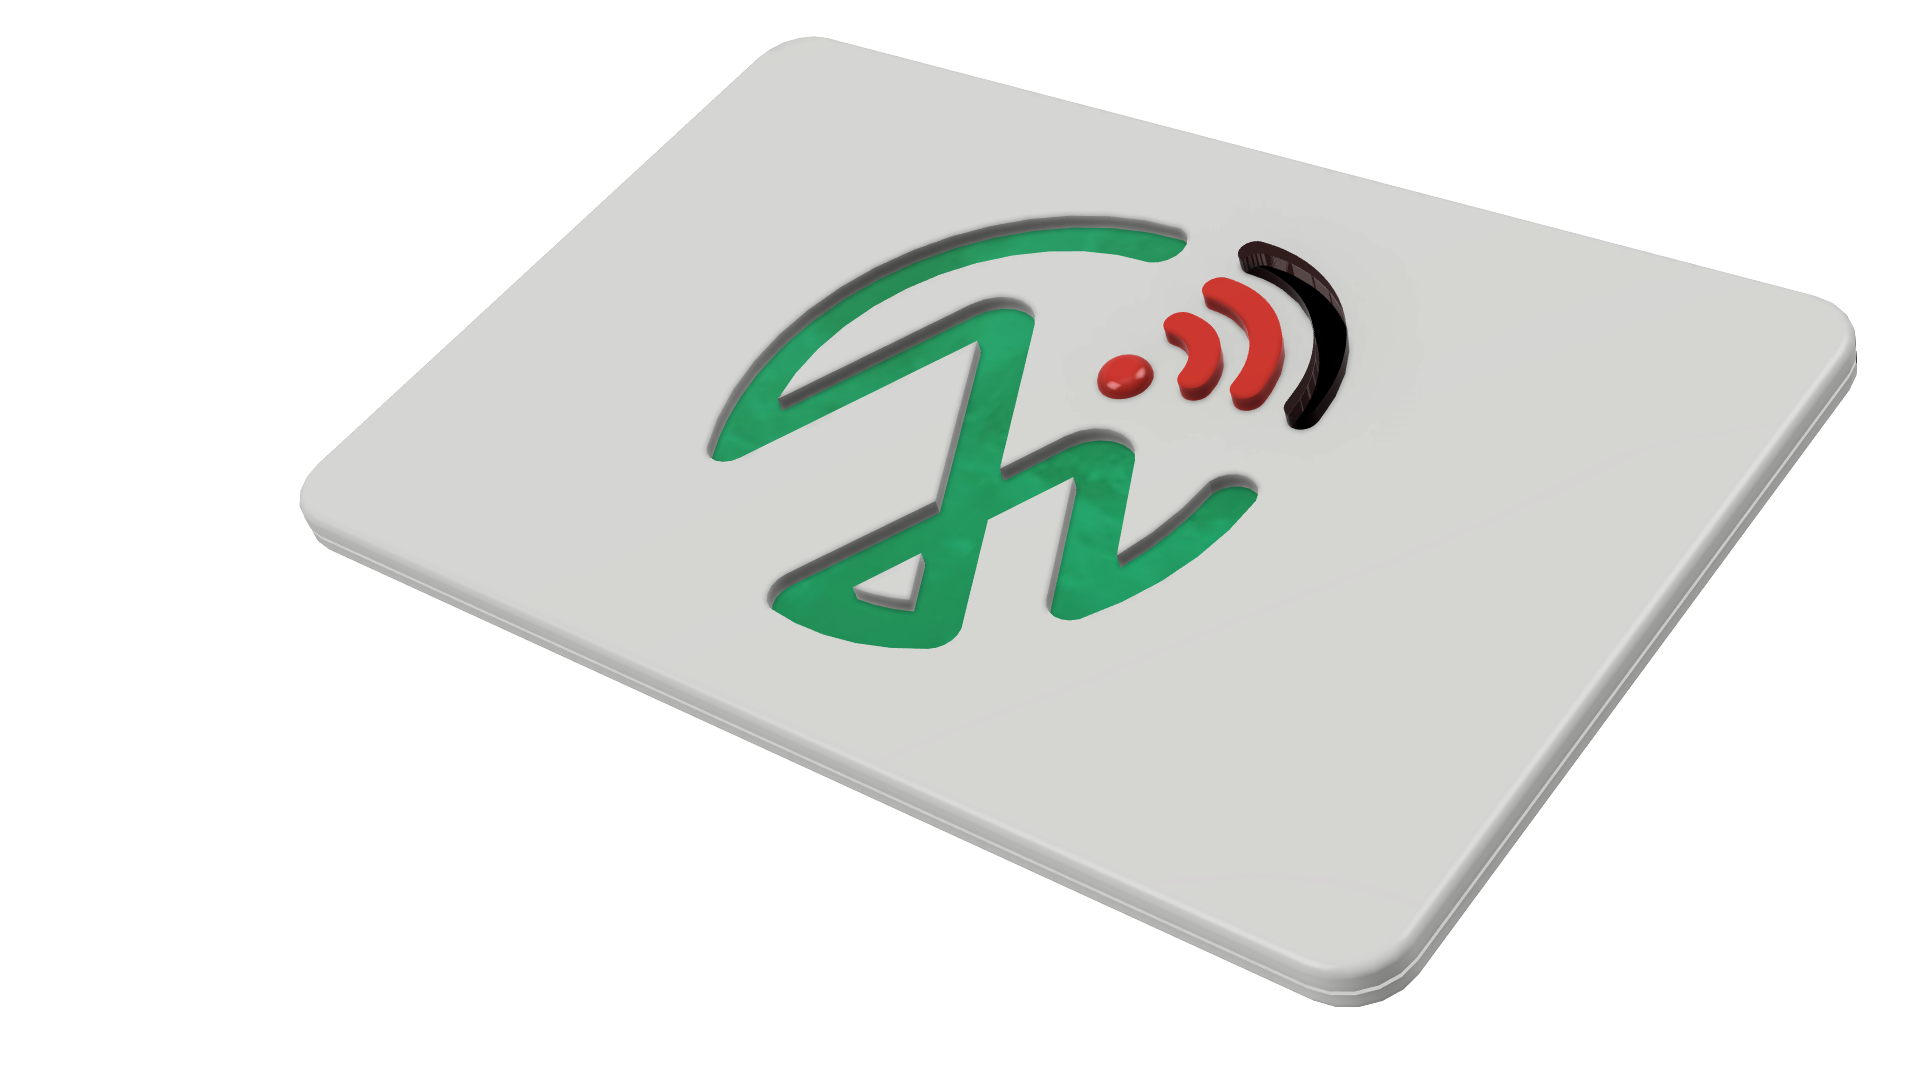
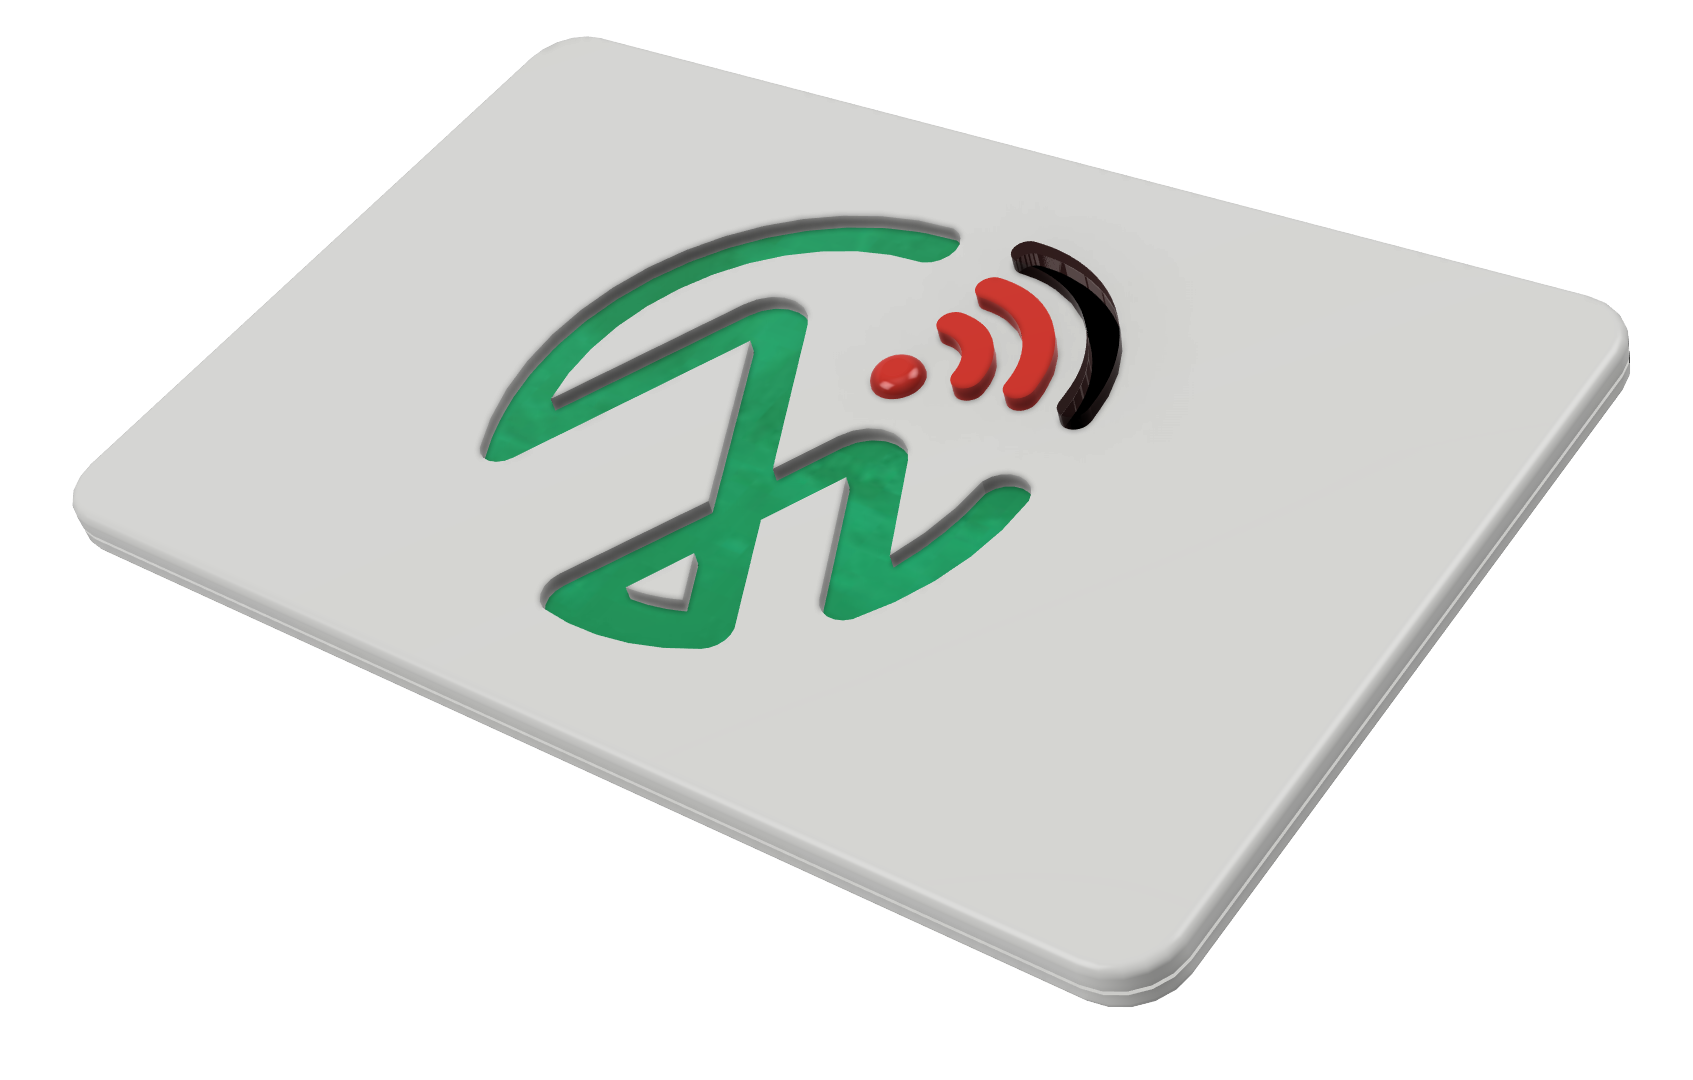
modificada la posición del render de la tarjeta

Changed region(s): [[0.0307, 0.0306, 0.9829, 0.9472], [0.7986, 0.2139, 0.9214, 0.275], [0.7372, 0.1833, 0.7986, 0.2139]]

diff --git a/src/components/home/Home.js b/src/components/home/Home.js
@@ -75,9 +75,9 @@ class Home extends React.Component {
                             <img src={sky} alt="esquiador" className="img" />
                         </Col>
                     </Row>
-                    <Row className="text">
+                    <Row className="left-text">
                         <Col>
-                            <img id="tarjeta" src={tarjeta} alt="Tarjeta Manwe" className="img" />
+                            <img id="tarjeta" src={tarjeta} alt="Tarjeta Manwe" className="img" style={{marginLeft:'0'}} />
                         </Col>
                         <div className="vl"></div>
                         <Col>

diff --git a/src/components/home/Home.scss b/src/components/home/Home.scss
@@ -210,6 +210,16 @@
         font-size: bold;
     }
 
+    .left-text{
+        background: #FFFFFF;
+        padding-left: 0vw;
+        padding-top: 5vw;
+        padding-bottom: 5vw;;
+        line-height: 1;
+        font-family: 'Poppins';
+        font-size: bold;
+    }
+
     .blue {
         background: #36A9E1;
         padding-left: 5vw;
